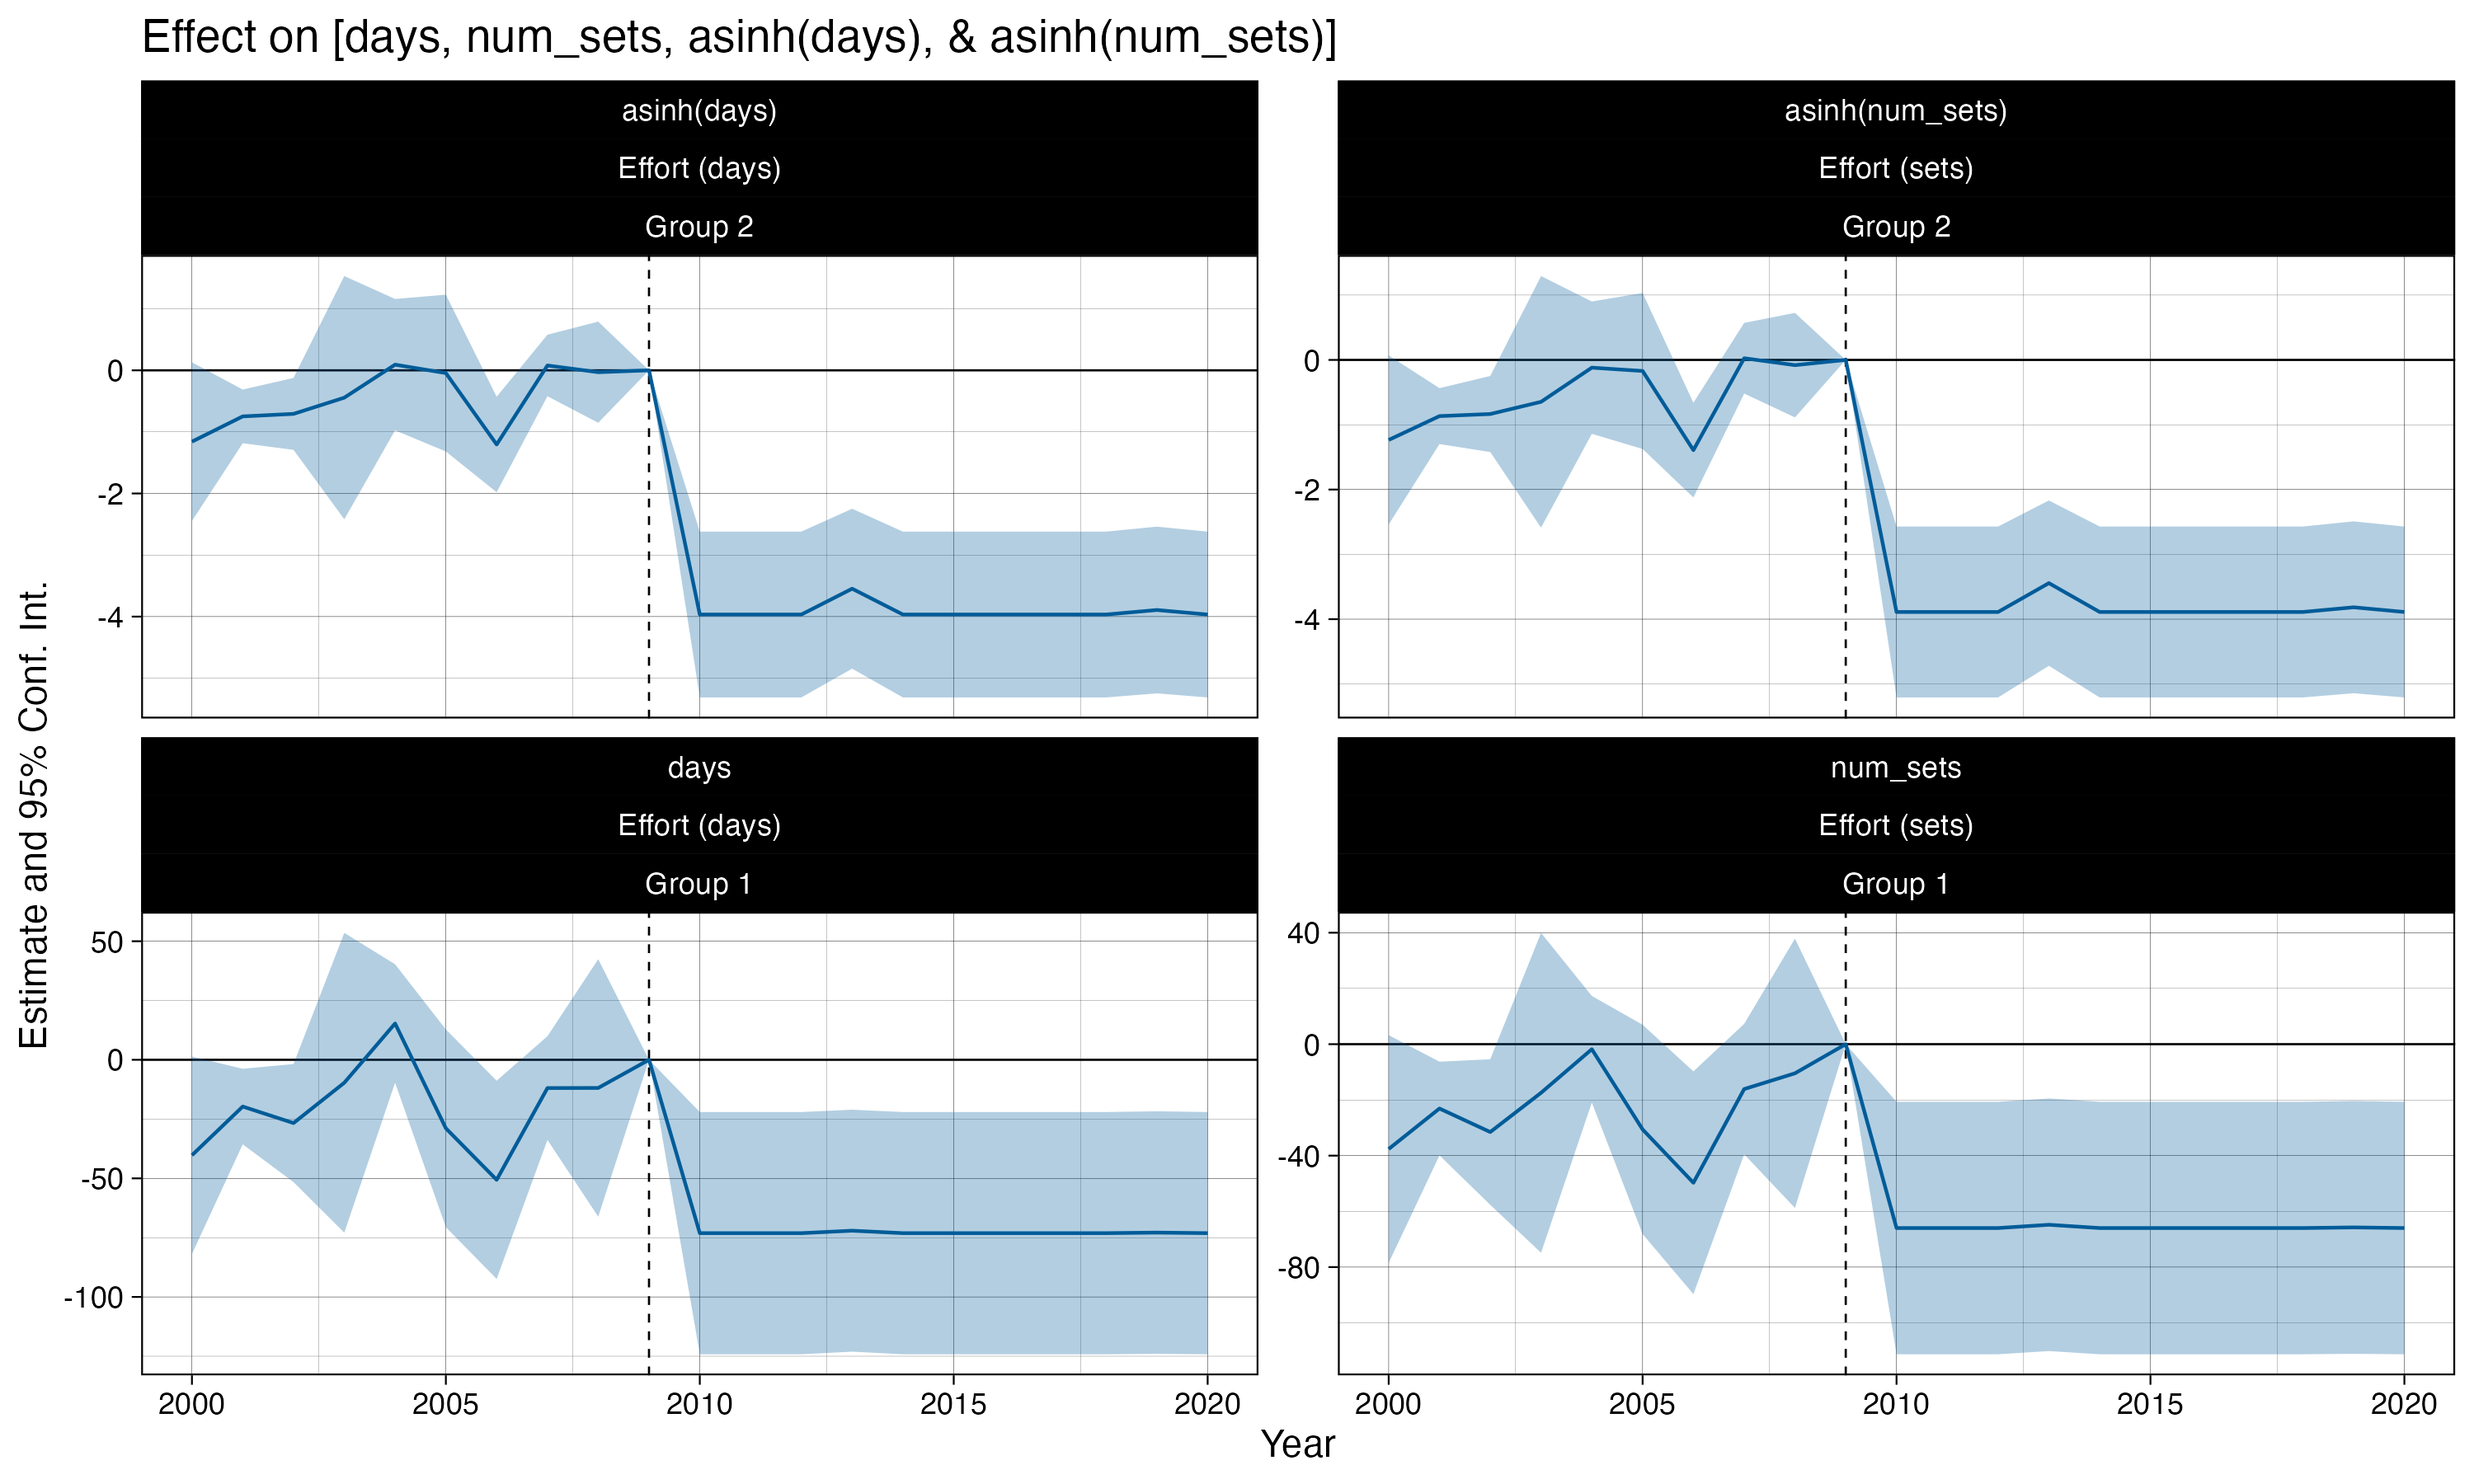
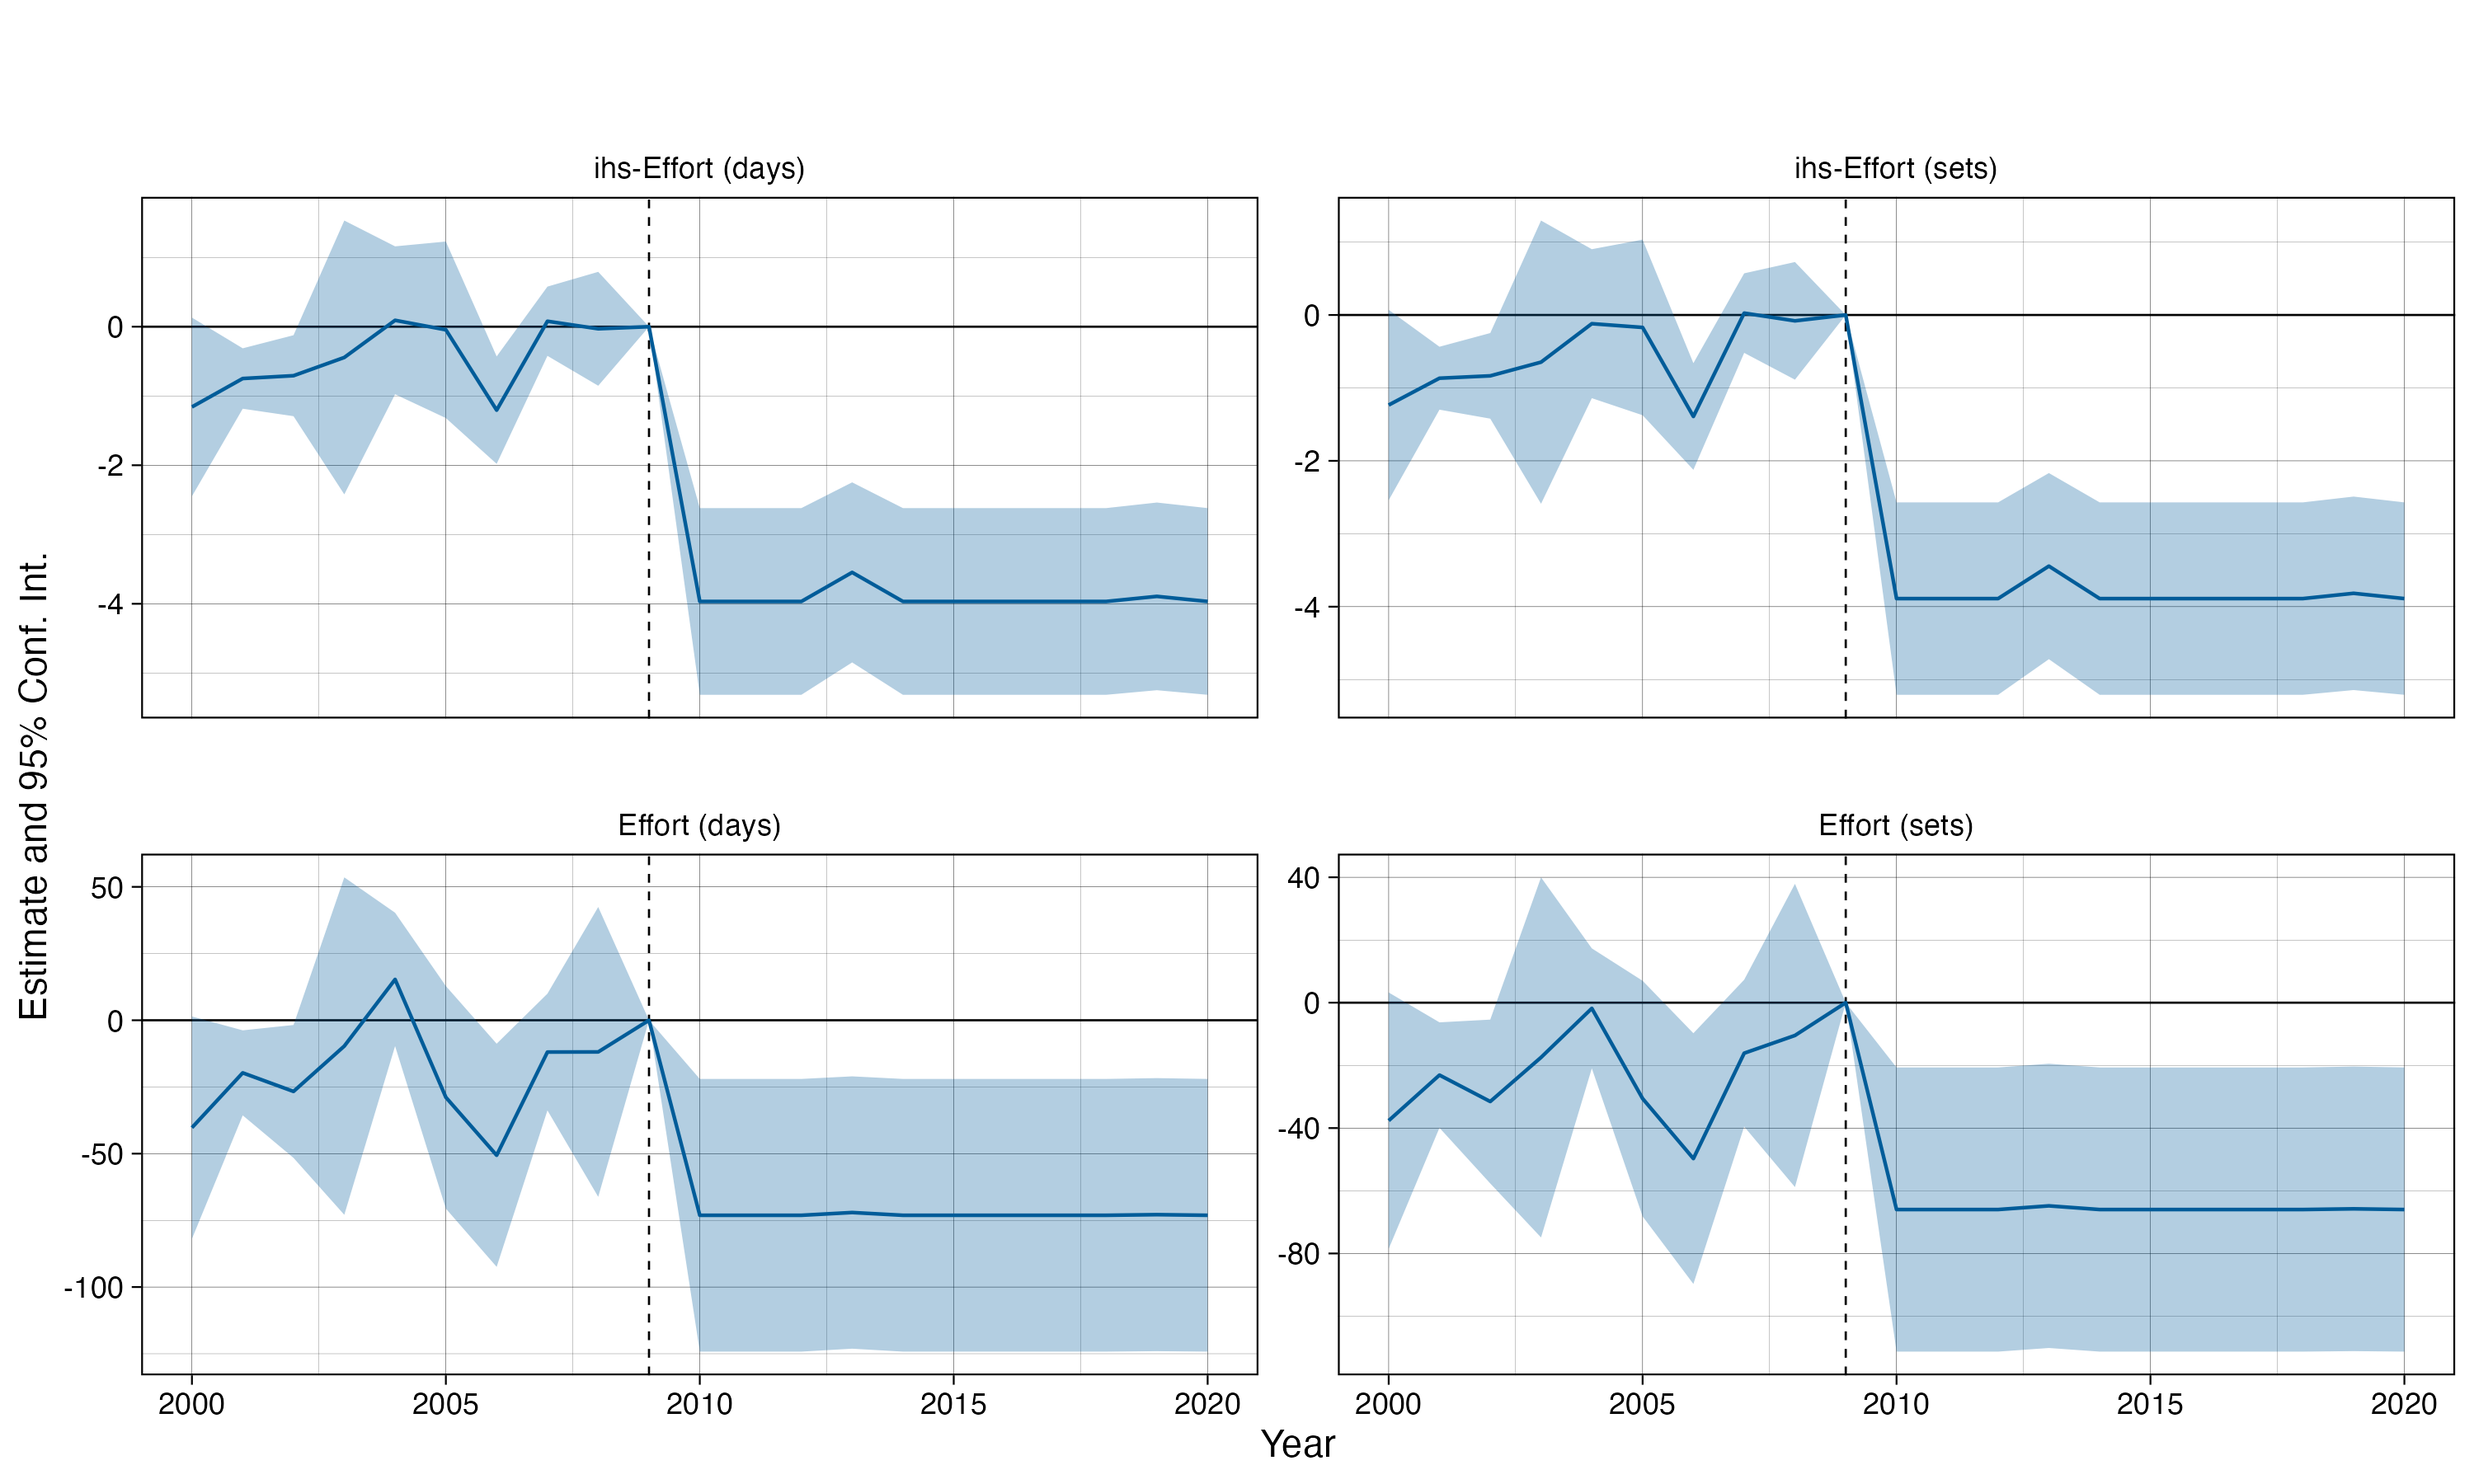
Updated h1

diff --git a/content/tab/h1_reg_twfe.tex b/content/tab/h1_reg_twfe.tex
@@ -17,15 +17,15 @@
 \addlinespace[0.5em]
 \multicolumn{3}{l}{\textit{A) Levels}}\\
 \midrule \hspace{1em}Post x Treated & -59.470*** & -50.933***\\
-\hspace{1em} & (13.762) & (10.607)\\
-\hspace{1em}R2 Adj. & 0.388 & 0.301\\
+\hspace{1em} & (13.763) & (10.608)\\
+\hspace{1em}Num.Obs. & 4011 & \vphantom{1} 4011\\
+\hspace{1em}$R^2$ Adj. & 0.388 & 0.301\\
 \addlinespace[0.5em]
 \multicolumn{3}{l}{\textit{B) Inverse-hyperbolic sine transformation}}\\
 \midrule \hspace{1em}Post x Treated & -4.036*** & -3.881***\\
 \hspace{1em} & (0.478) & (0.451)\\
-\hspace{1em}R2 Adj. & 0.465 & 0.451\\
-\midrule\\
 \hspace{1em}Num.Obs. & 4011 & 4011\\
+\hspace{1em}$R^2$ Adj. & 0.465 & 0.451\\
 \bottomrule
 \end{tabular}
 \begin{tablenotes}

diff --git a/content/tab/h1_reg_self.tex b/content/tab/h1_reg_self.tex
@@ -15,15 +15,15 @@
 \addlinespace[0.5em]
 \multicolumn{3}{l}{\textit{A) Levels}}\\
 \midrule \hspace{1em}Post & -54.555*** & -44.018***\\
-\hspace{1em} & (13.639) & (10.394)\\
-\hspace{1em}R2 Adj. & 0.363 & 0.332\\
+\hspace{1em} & (13.647) & (10.400)\\
+\hspace{1em}Num.Obs. & 840 & \vphantom{1} 840\\
+\hspace{1em}$R^2$ Adj. & 0.363 & 0.332\\
 \addlinespace[0.5em]
 \multicolumn{3}{l}{\textit{B) Inverse-hyperbolic sine transformation}}\\
 \midrule \hspace{1em}Post & -3.505*** & -3.310***\\
 \hspace{1em} & (0.452) & (0.424)\\
-\hspace{1em}R2 Adj. & 0.675 & 0.662\\
-\midrule\\
 \hspace{1em}Num.Obs. & 840 & 840\\
+\hspace{1em}$R^2$ Adj. & 0.675 & 0.662\\
 \bottomrule
 \end{tabular}
 \begin{tablenotes}

diff --git a/content/tab/h1_reg.tex b/content/tab/h1_reg.tex
@@ -10,11 +10,11 @@
   & Effort (days) & Effort (sets)\\
 \midrule
 Post x Treated & \num{-59.470}*** & \num{-50.933}***\\
- & (\num{13.762}) & (\num{10.607})\\
+ & (\num{13.763}) & (\num{10.608})\\
 $\bar{Y}_{pre}$ & \num{54.670} & \num{44.145}\\
 \midrule
 Num.Obs. & \num{4011} & \num{4011}\\
-R2 Adj. & \num{0.388} & \num{0.301}\\
+$R^2$ Adj. & \num{0.388} & \num{0.301}\\
 \bottomrule
 \end{tabular}
 \begin{tablenotes}
